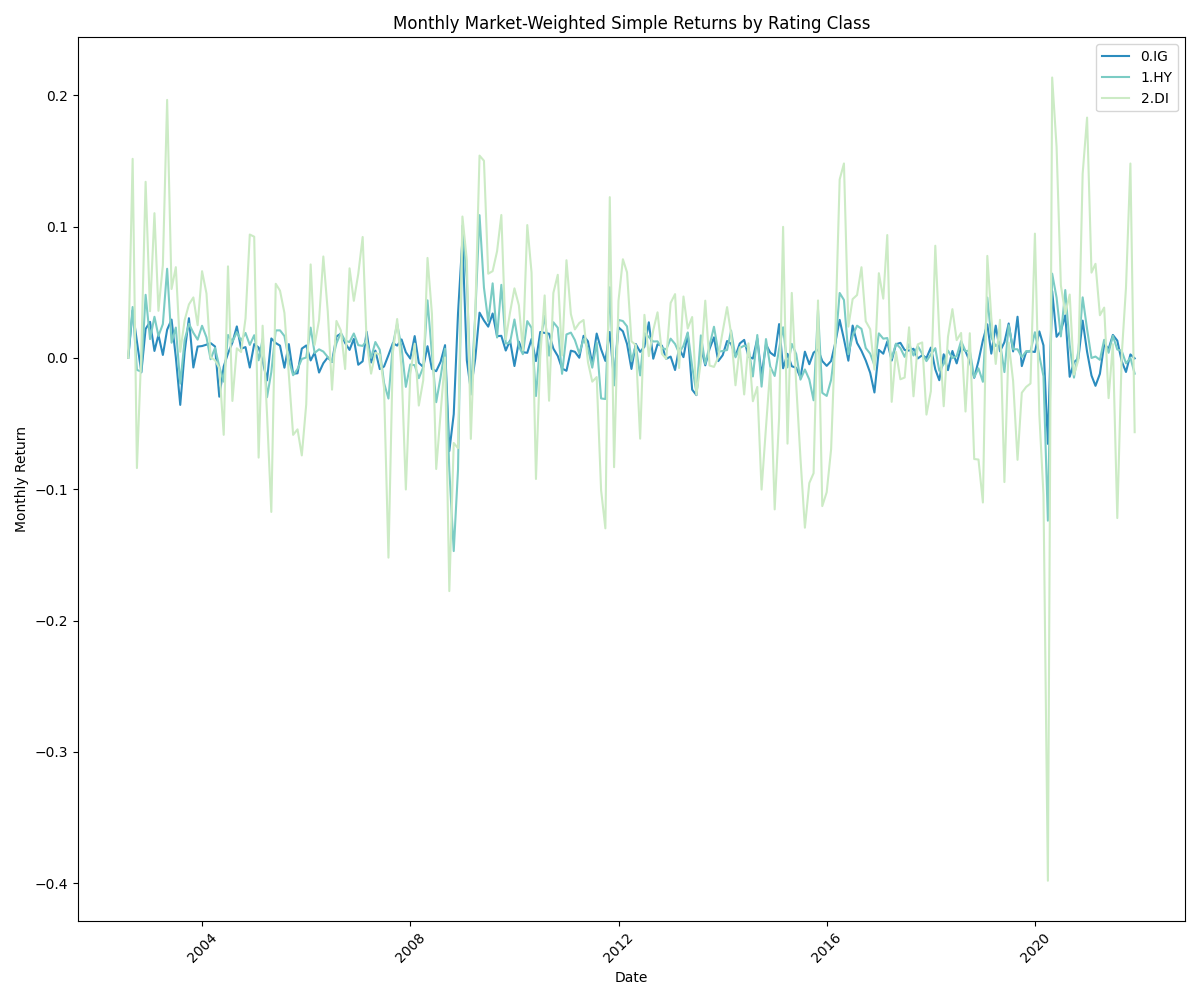
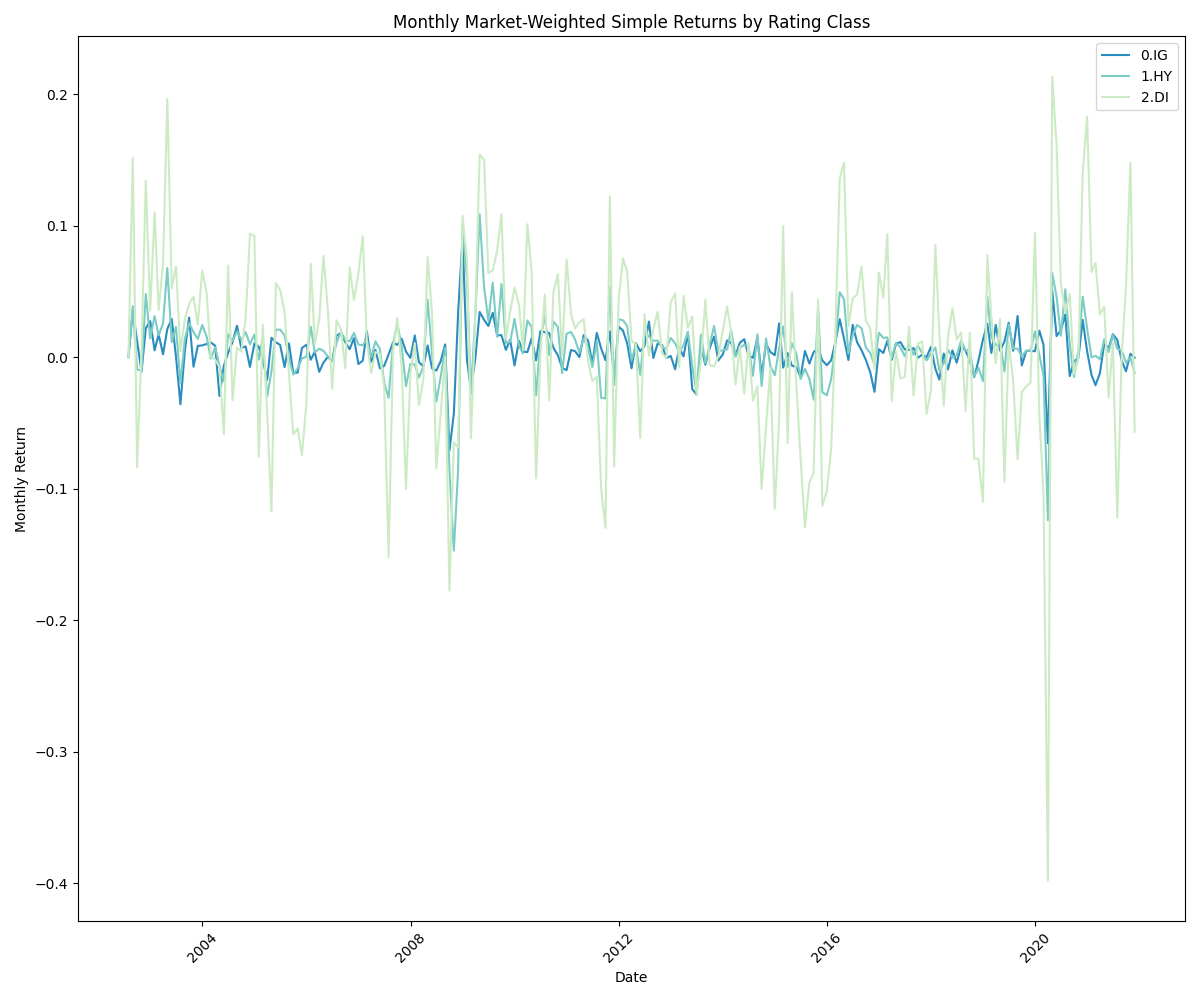
just reloaded with past rating data

diff --git a/py_code/model_setup.py b/py_code/model_setup.py
@@ -29,7 +29,7 @@ figures_folder = project_dir + "/figures"
 
 # Importing the cleaned data
 bond_data = pd.read_csv(data_folder + "/preprocessed/bond_data.csv")
-model_data = bond_data[['eom', 'cusip', 'ret_exc', 'credit_spread_past', 'rating_class', 'market_value_past', 'price_eom']]
+model_data = bond_data[['eom', 'cusip', 'ret_exc', 'credit_spread_past', 'rating_class_past', 'market_value_past', 'price_eom_past']]
 model_data['eom'] = pd.to_datetime(model_data['eom'])
 model_data.to_csv("data/preprocessed/model_data.csv")
 ## HUSK AT ÆNDRE TIL PRICE_PAST####
@@ -47,8 +47,8 @@ for month in sorted(unique_months):
     # Assign portfolios for this month.
     # Order matters if the conditions are not mutually exclusive.
     month_data.loc[month_data['credit_spread_past'] > 0.1, 'portfolio'] = 'DI'
-    month_data.loc[(month_data['portfolio'].isnull()) & (month_data['rating_class'] == '0.IG'), 'portfolio'] = 'IG'
-    month_data.loc[(month_data['portfolio'].isnull()) & (month_data['rating_class'] == '1.HY'), 'portfolio'] = 'HY'
+    month_data.loc[(month_data['portfolio'].isnull()) & (month_data['rating_class_past'] == '0.IG'), 'portfolio'] = 'IG'
+    month_data.loc[(month_data['portfolio'].isnull()) & (month_data['rating_class_past'] == '1.HY'), 'portfolio'] = 'HY'
     month_data.loc[month_data['portfolio'].isnull(), 'portfolio'] = 'Other'
     
     # Store the resulting DataFrame in a dictionary keyed by the month.
@@ -66,8 +66,8 @@ print(portfolio_by_month)
 # ================== Add portfolio to the bond_data ===============
 model_data['portfolio'] = np.nan
 model_data.loc[model_data['credit_spread_past'] > 0.1, 'portfolio'] = 'DI'
-model_data.loc[model_data['portfolio'].isnull() & (model_data['rating_class'] == '0.IG'), 'portfolio'] = 'IG'
-model_data.loc[model_data['portfolio'].isnull() & (model_data['rating_class'] == '1.HY'), 'portfolio'] = 'HY'
+model_data.loc[model_data['portfolio'].isnull() & (model_data['rating_class_past'] == '0.IG'), 'portfolio'] = 'IG'
+model_data.loc[model_data['portfolio'].isnull() & (model_data['rating_class_past'] == '1.HY'), 'portfolio'] = 'HY'
 model_data.to_csv("data/preprocessed/model_data.csv")
 
 portfolio_counts = model_data['portfolio'].value_counts()
@@ -233,6 +233,7 @@ plt.legend()
 plt.xticks(rotation=45)
 plt.grid(True)
 plt.tight_layout()
+plt.savefig(figures_folder + "/rolling_beta_by_portfolio.png")
 plt.show()
 
 # ===================================================================    
